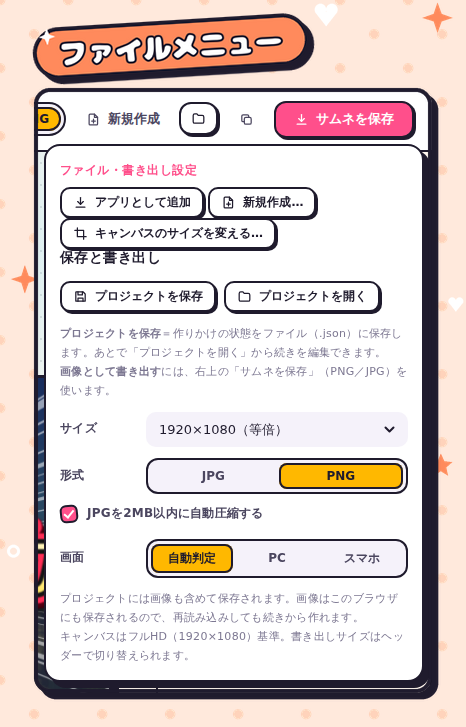
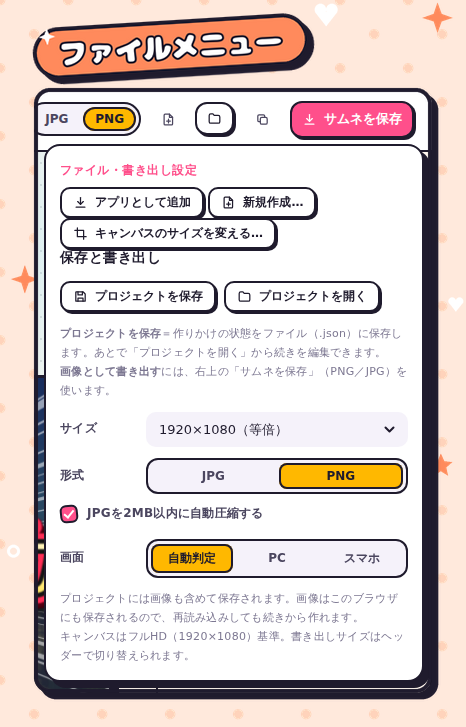
説明書の画像を撮り直し、新しいエフェクトの見本画像を追加／網点・紙の質感を調整
Claude-Session: https://claude.ai/code/session_017iaXbVyubLxKotPXWxBsUr

Changed region(s): [[0.1803, 0.121, 0.8712, 0.2118], [0.0601, 0.121, 0.1502, 0.2118]]

diff --git a/index.html b/index.html
@@ -20,7 +20,7 @@
 <link rel="preconnect" href="https://fonts.googleapis.com">
 <link rel="preconnect" href="https://fonts.gstatic.com" crossorigin>
 <link href="https://fonts.googleapis.com/css2?family=Inter:wght@400;500;600;700&family=M+PLUS+Rounded+1c:wght@400;500;700;800&family=Noto+Sans+JP:wght@400;700;900&display=swap" rel="stylesheet">
-<link rel="stylesheet" href="css/app.css?v=52451284">
+<link rel="stylesheet" href="css/app.css?v=306f2cae">
 </head>
 <body class="mode-thumb">
 <header class="app-head">
@@ -351,42 +351,42 @@
   <p>フォントファイル（.ttf / .otf）やプロジェクト（.json）はどこに落としてもOK</p>
 </div>
 
-<script src="js/core.js?v=52451284"></script>
-<script src="js/bind.js?v=52451284"></script>
-<script src="js/presets.js?v=52451284"></script>
-<script src="js/data/font-list.js?v=52451284"></script>
-<script src="js/fonts.js?v=52451284"></script>
-<script src="js/controls.js?v=52451284"></script>
-<script src="js/text-render.js?v=52451284"></script>
-<script src="js/preview.js?v=52451284"></script>
-<script src="js/colors.js?v=52451284"></script>
-<script src="js/history.js?v=52451284"></script>
-<script src="js/thumb/frames.js?v=52451284"></script>
-<script src="js/thumb/imgfx.js?v=52451284"></script>
-<script src="js/thumb/collage.js?v=52451284"></script>
-<script src="js/thumb/collage-draw.js?v=52451284"></script>
-<script src="js/thumb/collage-cells.js?v=52451284"></script>
-<script src="js/thumb/collage-panel.js?v=52451284"></script>
-<script src="js/thumb/library.js?v=52451284"></script>
-<script src="js/thumb/canvas.js?v=52451284"></script>
-<script src="js/thumb/group.js?v=52451284"></script>
-<script src="js/thumb/fx.js?v=52451284"></script>
-<script src="js/thumb/cutout.js?v=52451284"></script>
-<script src="js/thumb/assets.js?v=52451284"></script>
-<script src="js/thumb/doc.js?v=52451284"></script>
-<script src="js/thumb/finish.js?v=52451284"></script>
-<script src="js/thumb/render.js?v=52451284"></script>
-<script src="js/thumb/overlay.js?v=52451284"></script>
-<script src="js/thumb/editmodes.js?v=52451284"></script>
-<script src="js/thumb/layers.js?v=52451284"></script>
-<script src="js/thumb/export.js?v=52451284"></script>
-<script src="js/thumb/inspector.js?v=52451284"></script>
-<script src="js/thumb/events.js?v=52451284"></script>
-<script src="js/mobile.js?v=52451284"></script>
-<script src="js/pwa.js?v=52451284"></script>
-<script src="js/changelog.js?v=52451284"></script>
-<script src="js/popups.js?v=52451284"></script>
-<script src="js/main.js?v=52451284"></script>
+<script src="js/core.js?v=306f2cae"></script>
+<script src="js/bind.js?v=306f2cae"></script>
+<script src="js/presets.js?v=306f2cae"></script>
+<script src="js/data/font-list.js?v=306f2cae"></script>
+<script src="js/fonts.js?v=306f2cae"></script>
+<script src="js/controls.js?v=306f2cae"></script>
+<script src="js/text-render.js?v=306f2cae"></script>
+<script src="js/preview.js?v=306f2cae"></script>
+<script src="js/colors.js?v=306f2cae"></script>
+<script src="js/history.js?v=306f2cae"></script>
+<script src="js/thumb/frames.js?v=306f2cae"></script>
+<script src="js/thumb/imgfx.js?v=306f2cae"></script>
+<script src="js/thumb/collage.js?v=306f2cae"></script>
+<script src="js/thumb/collage-draw.js?v=306f2cae"></script>
+<script src="js/thumb/collage-cells.js?v=306f2cae"></script>
+<script src="js/thumb/collage-panel.js?v=306f2cae"></script>
+<script src="js/thumb/library.js?v=306f2cae"></script>
+<script src="js/thumb/canvas.js?v=306f2cae"></script>
+<script src="js/thumb/group.js?v=306f2cae"></script>
+<script src="js/thumb/fx.js?v=306f2cae"></script>
+<script src="js/thumb/cutout.js?v=306f2cae"></script>
+<script src="js/thumb/assets.js?v=306f2cae"></script>
+<script src="js/thumb/doc.js?v=306f2cae"></script>
+<script src="js/thumb/finish.js?v=306f2cae"></script>
+<script src="js/thumb/render.js?v=306f2cae"></script>
+<script src="js/thumb/overlay.js?v=306f2cae"></script>
+<script src="js/thumb/editmodes.js?v=306f2cae"></script>
+<script src="js/thumb/layers.js?v=306f2cae"></script>
+<script src="js/thumb/export.js?v=306f2cae"></script>
+<script src="js/thumb/inspector.js?v=306f2cae"></script>
+<script src="js/thumb/events.js?v=306f2cae"></script>
+<script src="js/mobile.js?v=306f2cae"></script>
+<script src="js/pwa.js?v=306f2cae"></script>
+<script src="js/changelog.js?v=306f2cae"></script>
+<script src="js/popups.js?v=306f2cae"></script>
+<script src="js/main.js?v=306f2cae"></script>
 <!-- アクセス数の計測（Cloudflare Web Analytics）。Cookie を使わず、ページを開いた回数・参照元・国・端末の種類だけを数える。
      画像・テキスト・作りかけのデータは送らない。CSP の script-src で許可しているのはこの配信元だけ -->
 <script defer src="https://static.cloudflareinsights.com/beacon.min.js" data-cf-beacon='{"token": "60cf1682ac9040b19de66e5594330dc7"}'></script>

diff --git a/js/thumb/finish.js b/js/thumb/finish.js
@@ -118,10 +118,13 @@ function applyFinish(c, F, f){
 let paperTile = null;
 function paperOver(x, W, H, a, f){
   if(!paperTile){ paperTile = mk(512, 512); const g = paperTile.getContext('2d'), R = rng(29);
-    const lo = mk(16, 16), lx = lo.getContext('2d'), im = lx.createImageData(16, 16);
-    for(let i = 0; i < im.data.length; i += 4){ const v = 128 + (R() - 0.5) * 60; im.data[i] = im.data[i + 1] = im.data[i + 2] = v; im.data[i + 3] = 255; }
-    lx.putImageData(im, 0, 0); g.imageSmoothingEnabled = true; g.drawImage(lo, 0, 0, 512, 512);
-    g.lineWidth = 0.8; for(let i = 0; i < 900; i++){ const px = R() * 512, py = R() * 512, l = 4 + R() * 14, an = R() * PI; g.strokeStyle = R() < 0.5 ? 'rgba(255,255,255,.25)' : 'rgba(0,0,0,.18)'; g.beginPath(); g.moveTo(px, py); g.lineTo(px + Math.cos(an) * l, py + Math.sin(an) * l); g.stroke(); } }
+    g.fillStyle = '#808080'; g.fillRect(0, 0, 512, 512);
+    // むら：ぼんやりした明暗の丸。端をまたぐ丸は反対側にも描いて、つなぎ目のない柄にする
+    for(let i = 0; i < 70; i++){ const px = R() * 512, py = R() * 512, r = 40 + R() * 110, light = R() < 0.5, al = 0.05 + R() * 0.07;
+      for(const ox of [-512, 0, 512]) for(const oy of [-512, 0, 512]){ const gr = g.createRadialGradient(px + ox, py + oy, 0, px + ox, py + oy, r);
+        gr.addColorStop(0, light ? `rgba(255,255,255,${al})` : `rgba(0,0,0,${al})`); gr.addColorStop(1, 'rgba(128,128,128,0)'); g.fillStyle = gr; g.fillRect(px + ox - r, py + oy - r, r * 2, r * 2); } }
+    // 繊維：短い細い線
+    g.lineWidth = 0.8; for(let i = 0; i < 900; i++){ const px = R() * 512, py = R() * 512, l = 4 + R() * 14, an = R() * PI; g.strokeStyle = R() < 0.5 ? 'rgba(255,255,255,.22)' : 'rgba(0,0,0,.15)'; g.beginPath(); g.moveTo(px, py); g.lineTo(px + Math.cos(an) * l, py + Math.sin(an) * l); g.stroke(); } }
   x.save(); x.globalCompositeOperation = 'multiply'; x.globalAlpha = a * 0.35; x.fillStyle = '#f2e6cf'; x.fillRect(0, 0, W, H);
   x.globalCompositeOperation = 'overlay'; x.globalAlpha = a * 0.7; const s = Math.max(0.5, f * 1.5); x.scale(s, s); x.fillStyle = x.createPattern(paperTile, 'repeat'); x.fillRect(0, 0, W / s, H / s); x.restore();
 }

diff --git a/js/thumb/imgfx.js b/js/thumb/imgfx.js
@@ -85,20 +85,20 @@ function addNoise(c, amt){
   for(let i = 0; i < d.length; i += 4){ const v = (R() - 0.5) * 2 * a; d[i] += v; d[i + 1] += v; d[i + 2] += v; }
   c.getContext('2d').putImageData(im, 0, 0);
 }
-// 網点：縮小して読んだ1マスの明るさで点の大きさを決め、白い紙に c の点を打つ。mix の割合で元の色を乗算で戻す。透明な部分は透明のまま
+// 網点：縮小して読んだ1マスの明るさで点の大きさを決め、紙（白と元の絵を mix で混ぜたもの）に c の点を打つ。透明な部分は透明のまま
 function halftoneImg(c, h, f){
   const W = c.width, H = c.height, s = Math.max(3, clamp(+h.size || 10, 2, 80) * f), gw = Math.ceil(W / s), gh = Math.ceil(H / s);
   const sm = mk(gw, gh), sx = sm.getContext('2d', {willReadFrequently:true}); sx.drawImage(c, 0, 0, gw, gh);
   const d = sx.getImageData(0, 0, gw, gh).data, t = mk(W, H), tx = t.getContext('2d');
-  tx.fillStyle = '#ffffff'; tx.fillRect(0, 0, W, H); tx.fillStyle = h.c;
+  // 紙：白と元の絵を mix の割合で混ぜたもの（mix が大きいほど元の色が残る）。その上に点を打つ
+  const mx = clamp(+h.mix || 0, 0, 1); tx.fillStyle = '#ffffff'; tx.fillRect(0, 0, W, H); if(mx > 0){ tx.globalAlpha = mx; tx.drawImage(c, 0, 0); tx.globalAlpha = 1; } tx.fillStyle = h.c;
   tx.beginPath();
   for(let j = 0; j < gh; j++) for(let i = 0; i < gw; i++){
-    const k = (j * gw + i) * 4, l = fxLum(d, k) / 255, r = s * 0.7 * Math.sqrt(Math.max(0, 1 - l));
+    const k = (j * gw + i) * 4, l = fxLum(d, k) / 255, r = s * 0.55 * Math.sqrt(Math.max(0, 1 - l));
     if(r < 0.4) continue;
     const x = i * s + s / 2 + (j % 2 ? s / 2 : 0), y = j * s + s / 2; tx.moveTo(x + r, y); tx.arc(x, y, r, 0, 2 * PI);
   }
   tx.fill();
-  const mx = clamp(+h.mix || 0, 0, 1); if(mx > 0){ tx.globalCompositeOperation = 'multiply'; tx.globalAlpha = mx; tx.drawImage(c, 0, 0); tx.globalAlpha = 1; }
   tx.globalCompositeOperation = 'destination-in'; tx.drawImage(c, 0, 0);
   const x = c.getContext('2d'); x.clearRect(0, 0, W, H); x.drawImage(t, 0, 0);
 }

diff --git a/js/changelog.js b/js/changelog.js
@@ -1,5 +1,9 @@
 /* 更新履歴（新しい順）。機能を足したら、先頭に追記する。画面の「更新履歴」と CHANGELOG.md（tools/gen-changelog.js が生成）の元データ */
 const CHANGELOG = [
+  {d:'2026-10-05', t:'説明書に新しいエフェクトの見本を追加／網点・紙の質感を調整', items:[
+    '説明書の画像をすべて撮り直し、新しい動的エフェクト（マンガ・光・演出・ゲーム配信）、画像の加工、ゆがみ、新しい仕上げの見本画像を追加',
+    '網点：暗い画像でも真っ黒になりにくいよう、点を小さめにし、「元の色を残す」で紙の色に元の絵が混ざるように',
+    '紙の質感：むらの柄に四角いつなぎ目が見えないよう、なめらかな柄に変更']},
   {d:'2026-10-05', t:'エフェクトを大幅に追加（動的エフェクト17種・画像の加工10種・仕上げ）', items:[
     '動的エフェクトを17種追加：マンガ（ウニフラ／ベタフラ・怒りマーク・汗・どんより・！？）、光（レンズフレア・十字の光・オーラ）、演出（炎・煙・ヒビ割れ・グリッチ・桜／葉っぱ／もみじ・泡／水しぶき）、ゲーム配信（衝撃波・ヒット・ピカピカ）。追加メニューは種類ごとに分けて表示',
     '画像の加工を追加（背景画像・画像レイヤー・分割フレームのマス・グループで共通）：色収差・グラデーションマップ・色の置き換え・網点・線画・油絵風・シャープ・ノイズ・ゆがみ（波・渦巻き・魚眼・すぼめる）。マスと画像レイヤーでもポスタライズ・2値化・ミニチュア風が使えるように',

diff --git a/sw.js b/sw.js
@@ -7,7 +7,7 @@
    登録は js/pwa.js。この中はウィンドウとは別のスコープで動くため、core.js などのグローバル（$ や LS）は使えない（使わないこと）。
    ここを書き換えると、ブラウザは sw.js のバイト列が変わったことで更新を検知する。そのため APP_VER を手で触らず、
    中身の変更は bump-version.sh に任せる（index.html の ?v= も同じ値に揃える） */
-const APP_VER = '52451284';
+const APP_VER = '306f2cae';
 const FONT_CACHE = 'ttm-fonts-v1', APP_CACHE = 'ttm-app-' + APP_VER;
 // 保存の対象の判定。フォントは「同梱の fonts/」と、外部の配信元（jsDelivr の gh/npm、Google の gstatic）に限る
 // （任意の外部 URL まで保存すると、容量を食うだけでなく想定外のものを残してしまうため）

diff --git a/tools/docs-screenshots.py b/tools/docs-screenshots.py
@@ -9,7 +9,8 @@ from helpers import ROOT, IMG, open_app, close, settle, page, canvas_box
 sys.path.insert(0, str(Path(__file__).resolve().parent))
 from docs_decorate import decorate_file
 from playwright.async_api import async_playwright
-from PIL import Image
+from PIL import Image, ImageDraw, ImageFont
+import base64, io
 
 OUT = ROOT / '.docs-raw'          # 撮ったまま（Git には入れない）
 FINAL = ROOT / 'docs' / 'img'      # 飾りを付けた、説明書に載せる画像
@@ -42,7 +43,9 @@ async def main_screens(p):
     await pg.evaluate("(() => { const L = DOC.layers.find(l => l.type === 'image'); selectLayer(L.id); const g0 = frameGeom(L); L.frame.fs = 0.55; L.frame.cy = 0.32; frameCompensate(L, g0); syncDoc(); docChanged(false); })()")
     await page(pg, 'lay-frame'); await settle(pg, 1200); await pg.click('#frameEditBtn'); await settle(pg); await shot(pg, 'frame-edit.png')
     await pg.keyboard.press('Escape'); await pg.evaluate("selectLayer(null)"); await settle(pg, 600)
-    await pg.click('#addBtn'); await pg.wait_for_timeout(500); await shot(pg, 'add-menu.png', clip={'x': 380, 'y': 0, 'width': 560, 'height': 420}); await pg.keyboard.press('Escape')
+    await pg.click('#addBtn'); await pg.wait_for_timeout(500)
+    r = await pg.evaluate("(() => { const b = document.querySelector('#addMenu').getBoundingClientRect(); return [b.left, b.top, b.width, b.height]; })()")
+    await shot(pg, 'add-menu.png', clip={'x': r[0] - 10, 'y': 0, 'width': r[2] + 20, 'height': r[1] + r[3] + 12}); await pg.keyboard.press('Escape')
     await pg.click('#fileBtn'); await pg.wait_for_timeout(500)
     r = await pg.eval_on_selector('#fileMenu', 'e => { const r = e.getBoundingClientRect(); return [r.left, r.top, r.width, r.height]; }')
     await shot(pg, 'file-menu.png', clip={'x': r[0] - 10, 'y': 0, 'width': r[2] + 20, 'height': r[1] + r[3] + 12}); await pg.keyboard.press('Escape')
@@ -87,6 +90,66 @@ async def frame_groups(p):
         for t in tiles: t.unlink()
     await close(pg)
 
+# 一覧画像：同じ場面（背景の街＋キャラ）に、種類ごとの効果をかけたタイルを並べ、名前の札を付ける。
+# 描くのはアプリの描画（compose）そのものなので、画面と同じ絵になる（選択枠などの表示は入らない）
+FONT = ROOT / 'fonts' / 'nikumaru' / 'Nikumaru.otf'
+def tile_grid(tiles, name, cols=3, w=480):
+    ims = [(Image.open(io.BytesIO(base64.b64decode(u.split(',')[1]))).convert('RGB'), t) for t, u in tiles]
+    h = int(ims[0][0].height * w / ims[0][0].width); gap = 8
+    G = Image.new('RGB', (cols * w + (cols + 1) * gap, ((len(ims) + cols - 1) // cols) * (h + gap) + gap), '#ffffff'); d = ImageDraw.Draw(G)
+    f = ImageFont.truetype(str(FONT), 22)
+    for i, (im, t) in enumerate(ims):
+        x, y = gap + (i % cols) * (w + gap), gap + (i // cols) * (h + gap); G.paste(im.resize((w, h), Image.LANCZOS), (x, y))
+        tw = d.textlength(t, font=f); d.rounded_rectangle([x + 8, y + 8, x + 8 + tw + 20, y + 8 + 34], 17, fill='#1f1b2d'); d.text((x + 18, y + 12), t, font=f, fill='#ffffff')
+    G.save(OUT / name, optimize=True)
+
+# 動的エフェクトを置く場所（キャラの後ろ＝奥に置くものは under）。値は DOC 座標と、パラメータ・レイヤーの上書き
+FX_POSE = {
+  'uni':{'under':1}, 'anger':{'x':1240, 'y':330, 'sc':1.3}, 'sweat':{'x':760, 'y':360, 'sc':1.3}, 'gloom':{'y':260, 'sc':1.4}, 'mark':{'x':1330, 'y':360, 'sc':1.2},
+  'flare':{'x':1500, 'y':240}, 'cross':{'sc':1.4}, 'aura':{'under':1, 'y':600, 'sc':1.0},
+  'fire':{'under':1}, 'smoke':{'under':1, 'y':640, 'sc':1.4}, 'crack':{'under':1, 'sc':1.6}, 'glitch':{}, 'petals':{}, 'bubbles':{},
+  'shock':{'under':1, 'y':860, 'sc':1.6}, 'hit':{'x':1150, 'y':520, 'sc':1.3}, 'shine':{'sc':1.2},
+}
+IMGFX = [['色収差', {'rgb': {'on': True, 'd': 12}}], ['グラデーションマップ', {'gmap': {'on': True, 'c1': '#12002e', 'c2': '#ff2bd6', 'c3': '#38f6ff'}}], ['色の置き換え', {'rep': {'on': True, 'from': '#ffd060', 'to': '#ff4f8b', 'tol': 0.12}}],
+         ['網点（マンガのトーン）', {'half': {'on': True, 'size': 9, 'mix': 0.85}}], ['線画', {'edge': {'on': True, 'keep': False, 'amt': 1.4}}], ['油絵風', {'paint': {'on': True, 'r': 12}}],
+         ['ポスタライズ', {'posterize': {'on': True, 'n': 4}}], ['ノイズ', {'noise': 0.6}], ['ドット絵（ワンクリック）', {'mosaic': {'on': True, 'size': 14}, 'posterize': {'on': True, 'n': 5}, 'sat': 0.3}]]
+WARPS = [['波', {'warp': {'type': 'wave', 'amt': 0.5, 'n': 6}}], ['渦巻き', {'warp': {'type': 'swirl', 'amt': 0.6}}], ['魚眼', {'warp': {'type': 'fisheye', 'amt': 0.6}}], ['すぼめる', {'warp': {'type': 'pinch', 'amt': 0.6}}]]
+FINS = ['game', 'sunset', 'cyber', 'pastel', 'wafu', 'oldfilm']
+SNAP = """() => { const W = 960, H = 540, c = mk(W, H); compose(c.getContext('2d'), W, H, false, new Map()); return c.toDataURL('image/png'); }"""
+async def galleries(p):
+    pg = await open_app(p)
+    await pg.set_input_files('#bgimgfile', IMG['city.jpg']); await settle(pg, 1500)
+    await pg.set_input_files('#imgfile', IMG['chara.jpg']); await settle(pg, 1500)
+    # キャラの背景（四隅の色）を透明にして、切り抜いたキャラにする（オーラ・汗などが体のまわりに見えるように）
+    await pg.evaluate("""(() => { DOC.layers = DOC.layers.filter(l => l.type === 'image'); const L = DOC.layers[0], A = ASSETS[L.asset];
+      const c = mk(4, 4), x = c.getContext('2d'); x.drawImage(A.img, 0, 0, 4, 4, 0, 0, 4, 4); const d = x.getImageData(0, 0, 1, 1).data;
+      Object.assign(L.key, {on:true, c:'#' + [d[0], d[1], d[2]].map(v => v.toString(16).padStart(2, '0')).join(''), mode:'edge', tol:30});
+      L.x = 960; L.y = 600; L.sc = 820 / A.img.naturalHeight; selectLayer(null); docChanged(false); })()"""); await settle(pg, 900)
+    groups = await pg.evaluate("FX_GROUPS.filter(g => g[0] !== '定番')")
+    slug = {'マンガ': 'fx-manga', '光': 'fx-light', '演出': 'fx-stage', 'ゲーム・配信': 'fx-game'}
+    for gname, kinds in groups:
+        tiles = []
+        for k in kinds:
+            pose = dict(FX_POSE.get(k, {})); under = pose.pop('under', 0)
+            u = await pg.evaluate("""([k, pose, under]) => { const img = DOC.layers.find(l => l.type === 'image'); const L = Object.assign(mkFx(k), pose);
+              DOC.layers = under ? [L, img] : [img, L]; prevCache.clear(); return (""" + SNAP + """)(); }""", [k, pose, under])
+            tiles.append([await pg.evaluate("k => FX_NAMES[k]", k), u])
+        tile_grid(tiles, slug[gname] + '.png', cols=3 if len(tiles) != 4 else 2)
+    await pg.evaluate("DOC.layers = DOC.layers.filter(l => l.type === 'image')")
+    APPLY = """([diff]) => { const b = DOC.bg, base = EXTRA_FX_BASE(); for(const k in base) b[k] = typeof base[k] === 'object' ? Object.assign(b[k], base[k]) : base[k];
+      Object.assign(b, {bright:0, contrast:0, sat:0}); b.mosaic.on = false; for(const k in diff){ const v = diff[k]; if(v && typeof v === 'object') Object.assign(b[k], v); else b[k] = v; } prevCache.clear(); }"""
+    for name, sets in [['imgfx.png', IMGFX], ['imgfx-warp.png', WARPS]]:
+        tiles = []
+        for t, diff in sets:
+            await pg.evaluate(APPLY, [diff]); tiles.append([t, await pg.evaluate(SNAP)])
+        tile_grid(tiles, name, cols=3 if len(sets) != 4 else 2)
+    await pg.evaluate(APPLY, [{}])
+    tiles = []
+    for k in FINS:
+        tiles.append([await pg.evaluate("k => (applyFinPreset(k), FIN_PRESETS[k][0])", k), await pg.evaluate(SNAP)])
+    tile_grid(tiles, 'fin-looks.png'); await pg.evaluate("applyFinPreset('reset')")
+    await close(pg)
+
 async def mobile(p):
     pg = await open_app(p, mobile=True)
     await pg.set_input_files('#bgimgfile', IMG['city.jpg']); await settle(pg, 1500)
@@ -109,7 +172,7 @@ def decorate_all():
 
 async def main():
     async with async_playwright() as p:
-        await main_screens(p); await frame_groups(p); await mobile(p)
+        await main_screens(p); await frame_groups(p); await galleries(p); await mobile(p)
     decorate_all()
 
 if __name__ == '__main__':

diff --git a/tools/docs_decorate.py b/tools/docs_decorate.py
@@ -29,6 +29,7 @@ LABELS = {
     'frame-edit': 'フレーム調整モード', 'collage': '分割フレーム', 'ins-cells': 'マスの画像', 'collage-fx': '分割フレームの効果', 'fx-layer': '動的エフェクト',
     'layers': 'レイヤー', 'file-menu': 'ファイルメニュー', 'text-mode': '文字素材モード',
     'mobile': 'スマホ画面', 'mobile-add': '追加', 'mobile-ins': '設定', 'mobile-layers': 'レイヤー',
+    'fx-manga': 'マンガの表現', 'fx-light': '光のエフェクト', 'fx-stage': '演出のエフェクト', 'fx-game': 'ゲーム・配信', 'imgfx': '画像の加工', 'imgfx-warp': 'ゆがみ', 'fin-looks': '新しい仕上げ',
     'week': '1週間の予定表', 'ins-ctext': '背景色・文字タブ', 'new-project': '新規作成',
 }
 # 下に余白が大きく空く縦長のパネル画像は、中身のところまでで切る

diff --git a/CHANGELOG.md b/CHANGELOG.md
@@ -2,6 +2,12 @@
 
 （新しい順。アプリ内の「更新履歴」と同じ内容です。js/changelog.js から自動生成）
 
+## 2026-10-05　説明書に新しいエフェクトの見本を追加／網点・紙の質感を調整
+
+- 説明書の画像をすべて撮り直し、新しい動的エフェクト（マンガ・光・演出・ゲーム配信）、画像の加工、ゆがみ、新しい仕上げの見本画像を追加
+- 網点：暗い画像でも真っ黒になりにくいよう、点を小さめにし、「元の色を残す」で紙の色に元の絵が混ざるように
+- 紙の質感：むらの柄に四角いつなぎ目が見えないよう、なめらかな柄に変更
+
 ## 2026-10-05　エフェクトを大幅に追加（動的エフェクト17種・画像の加工10種・仕上げ）
 
 - 動的エフェクトを17種追加：マンガ（ウニフラ／ベタフラ・怒りマーク・汗・どんより・！？）、光（レンズフレア・十字の光・オーラ）、演出（炎・煙・ヒビ割れ・グリッチ・桜／葉っぱ／もみじ・泡／水しぶき）、ゲーム配信（衝撃波・ヒット・ピカピカ）。追加メニューは種類ごとに分けて表示
